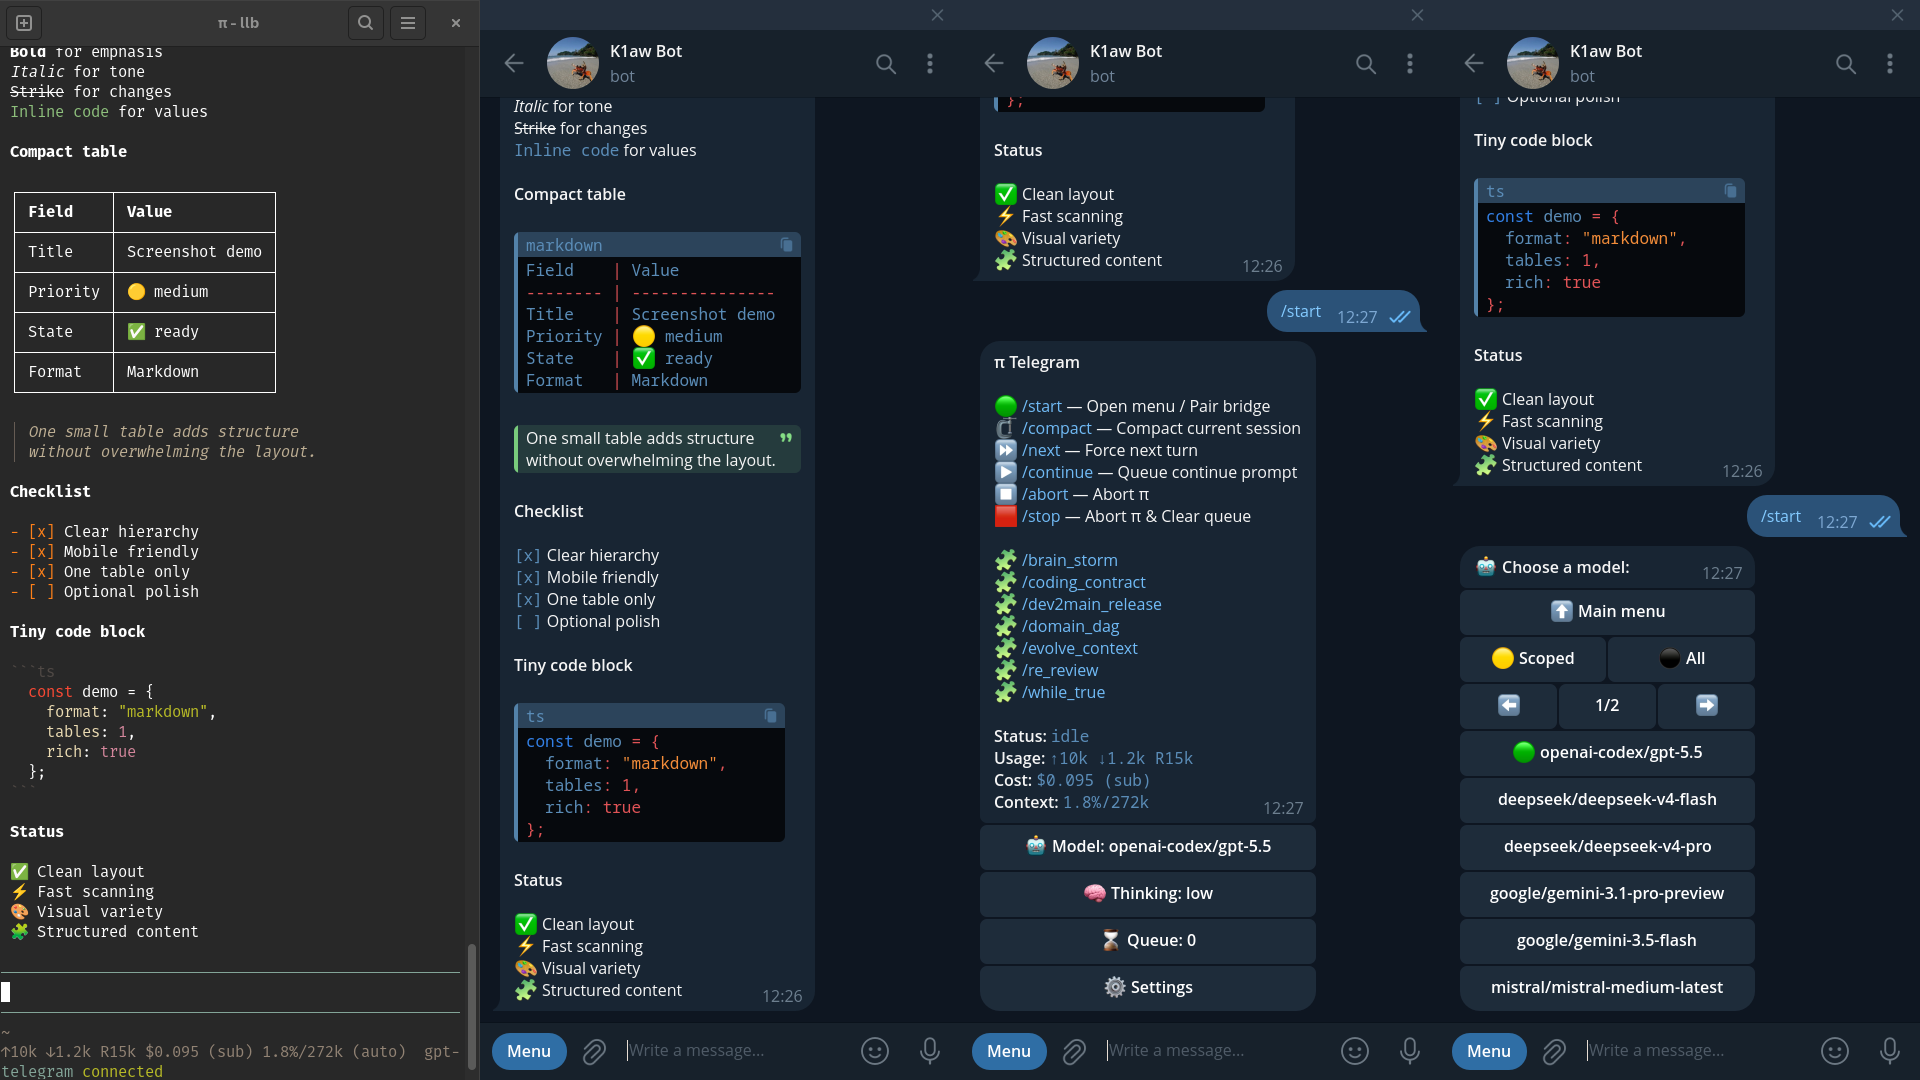
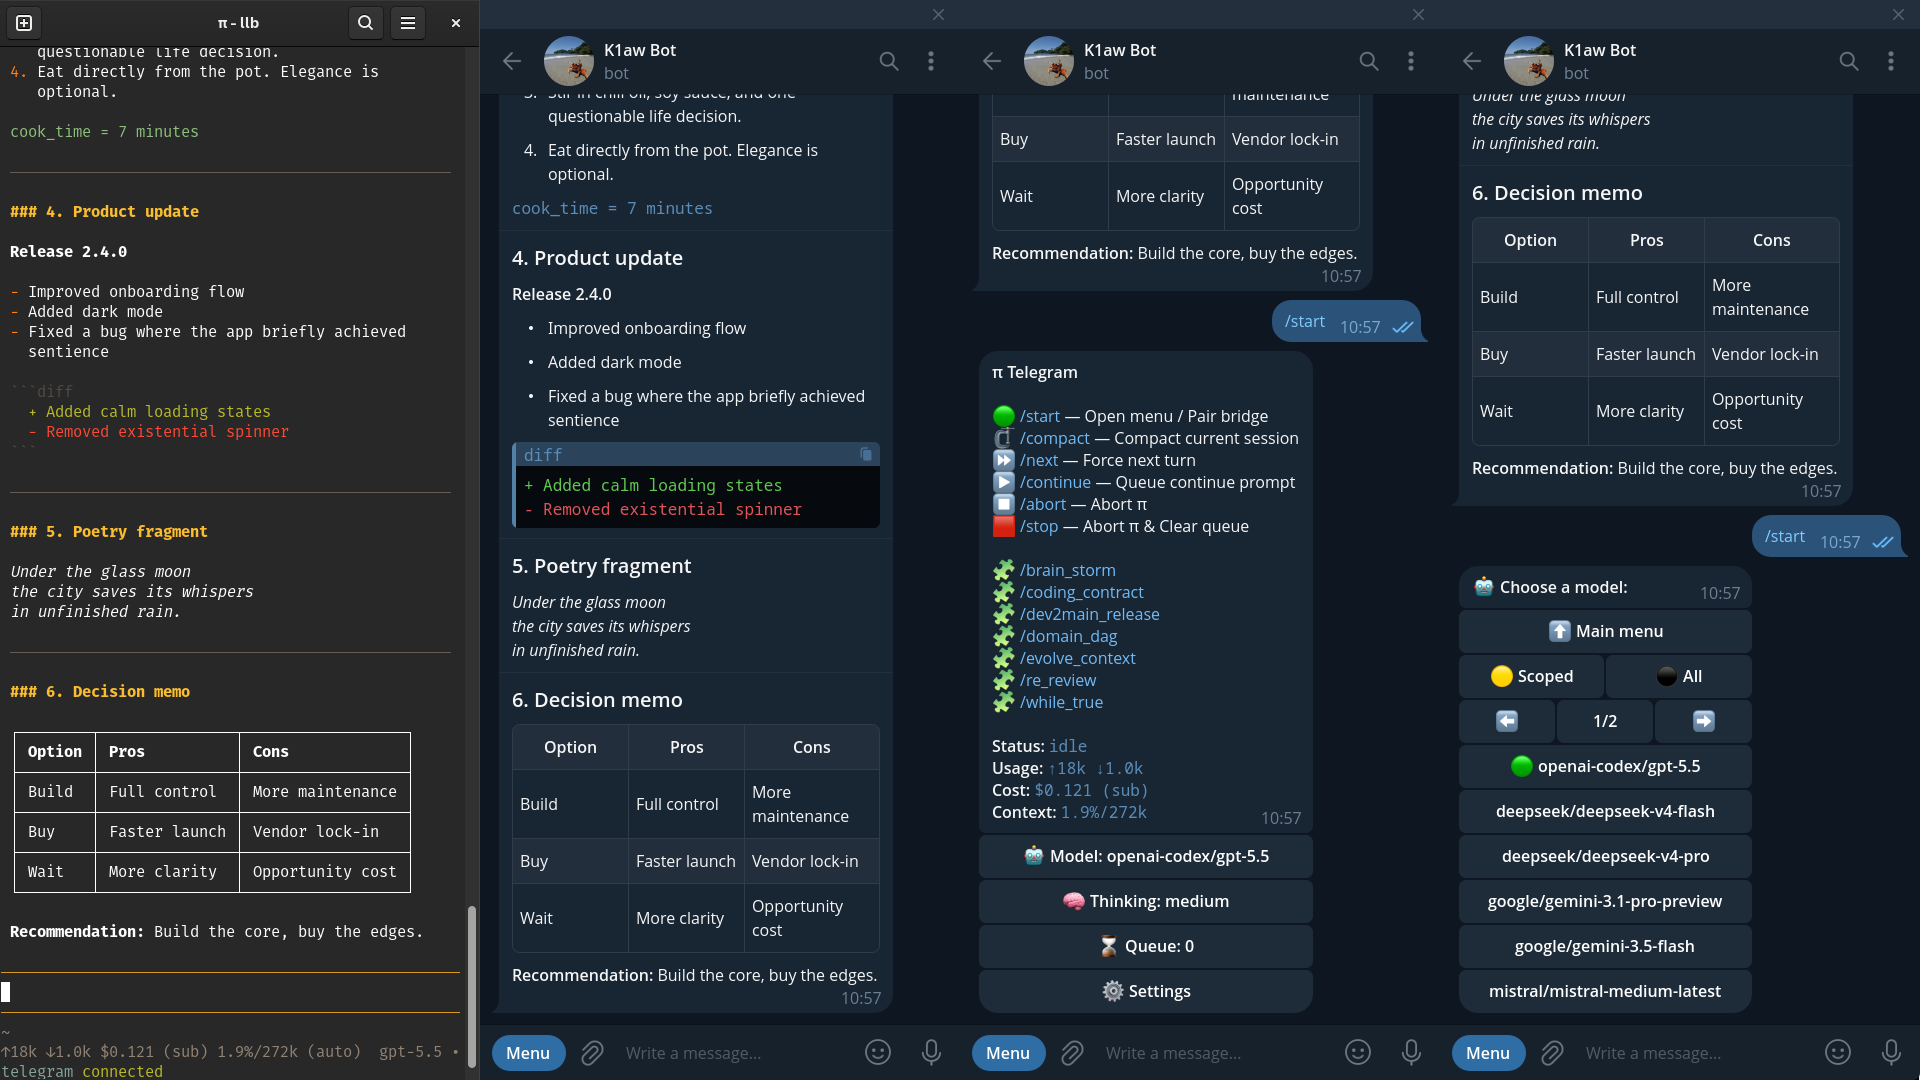
0.17.5: screenshot refresh

diff --git a/BACKLOG.md b/BACKLOG.md
@@ -5,6 +5,11 @@
   - Done when: each confirmed sequence has a conservative normalization or safe-degradation rule covered by tests.
   - Done when: unconfirmed speculative rewrites remain out of the delivery path.
 
+- [ ] Evaluate Rich Draft placeholder heartbeat for long unsafe preview gaps.
+  - Done when: live/client evidence confirms whether `RichBlockThinking` / `<tg-thinking>` prevents Telegram draft expiry while assistant output is still streaming but no safe Markdown prefix is available.
+  - Done when: the behavior is compared against the existing typing keepalive lifecycle so Telegram chat action and Rich Draft placeholder states do not fight each other.
+  - Done when: abort/clear behavior is tested so placeholder drafts do not create the transient confusing block observed after abort.
+
 - [ ] Track a public Pi session-replacement hook before adding Telegram `/new`.
   - [ ] Wait for a safe public Pi API.
     - Done when: Pi exposes an API that invokes the same session-replacement path as terminal `/new`.

diff --git a/CHANGELOG.md b/CHANGELOG.md
@@ -1,5 +1,9 @@
 # Changelog
 
+## 0.17.5: Screenshot Refresh
+
+- `[Docs]` Refreshed the package screenshot.
+
 ## 0.17.4: Native Rich Markdown Splitter Hotfix
 
 - `[Rich Markdown]` Rewrap oversized fenced code, display-math, and fully wrapped inline-formatting blocks when splitting native Rich Markdown at Telegram transport limits. Impact: very long structured Markdown blocks no longer produce invalid partial Rich Markdown chunks, so final assistant replies can stay native without losing long code/math/formatted output.